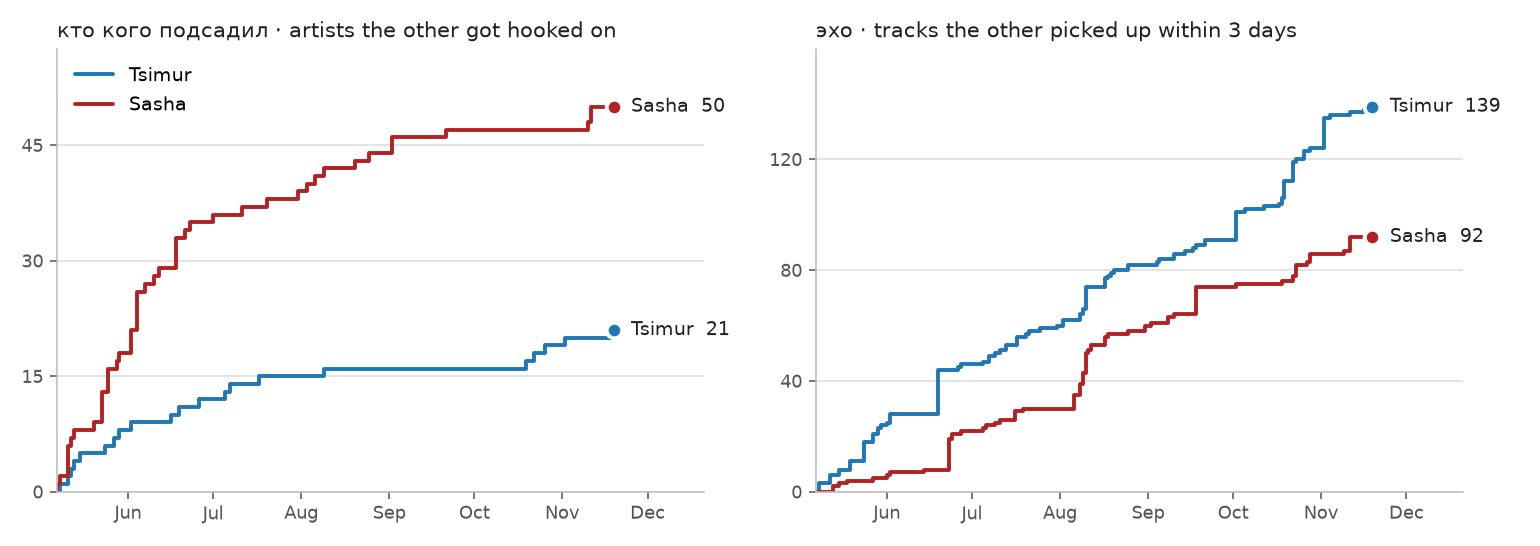
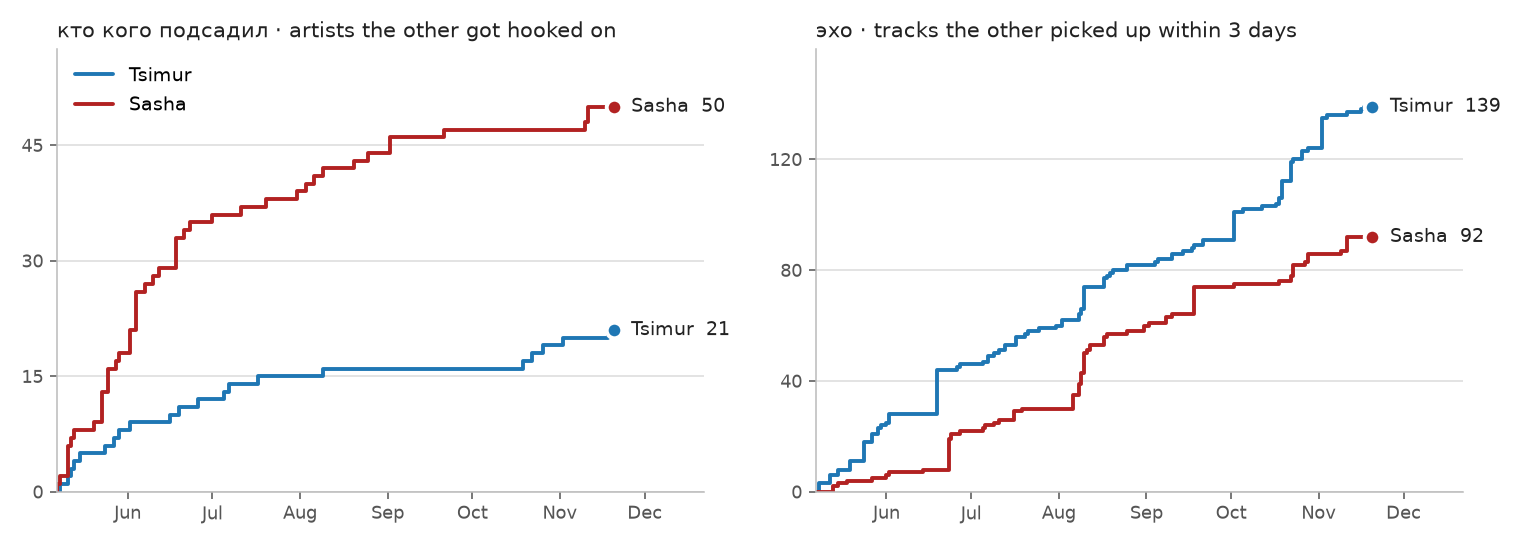
chore: daily data update 2026-11-20

diff --git a/index.html b/index.html
@@ -121,7 +121,7 @@
 
   <div class="card">
     <div class="card-header">::  over time  ::</div>
-    <div class="card-body"><img src="season2_chart.png?v=202611191416" alt="Cumulative conversions and echoes for each of us"></div>
+    <div class="card-body"><img src="season2_chart.png?v=202611201400" alt="Cumulative conversions and echoes for each of us"></div>
   </div>
 
   <div class="card">
@@ -129,10 +129,10 @@
     <div class="card-body">
       <p class="rule">An artist counts when one of us started playing it within 30 days
         after the other played it, and then played it at least 3 times.</p>
-      <ul class="facts"><li><span class="sw" style="background:#1f77b4"></span>Tsimur got <span class="sw" style="background:#b22222"></span>Sasha hooked on <b>21</b> artists — the biggest one: <b>John Maus</b> (127 plays since 17 Jul).</li><li><span class="sw" style="background:#b22222"></span>Sasha got <span class="sw" style="background:#1f77b4"></span>Tsimur hooked on <b>50</b> artists — the biggest one: <b>CUPSIZE</b> (3122 plays since 7 Jun).</li></ul>
+      <ul class="facts"><li><span class="sw" style="background:#1f77b4"></span>Tsimur got <span class="sw" style="background:#b22222"></span>Sasha hooked on <b>21</b> artists — the biggest one: <b>John Maus</b> (127 plays since 17 Jul).</li><li><span class="sw" style="background:#b22222"></span>Sasha got <span class="sw" style="background:#1f77b4"></span>Tsimur hooked on <b>50</b> artists — the biggest one: <b>CUPSIZE</b> (3127 plays since 7 Jun).</li></ul>
       <div class="scroll"><table class="list">
         <thead><tr><th>hooked on</th><th>artist</th><th>who → whom</th><th class="num">plays since</th><th class="num">after</th></tr></thead>
-        <tbody><tr><td>18 Nov</td><td><b>Leonard Cohen</b></td><td><span class="nowrap"><span class="sw" style="background:#1f77b4"></span>Tsimur → <span class="sw" style="background:#b22222"></span>Sasha</span></td><td class='num'>3</td><td class='num'>4 min</td></tr><tr><td>11 Nov</td><td><b>Сабля</b></td><td><span class="nowrap"><span class="sw" style="background:#b22222"></span>Sasha → <span class="sw" style="background:#1f77b4"></span>Tsimur</span></td><td class='num'>4</td><td class='num'>15 h</td></tr><tr><td>11 Nov</td><td><b>Рыцарь Диких Яблок</b></td><td><span class="nowrap"><span class="sw" style="background:#b22222"></span>Sasha → <span class="sw" style="background:#1f77b4"></span>Tsimur</span></td><td class='num'>4</td><td class='num'>20 min</td></tr><tr><td>10 Nov</td><td><b>Been Stellar</b></td><td><span class="nowrap"><span class="sw" style="background:#b22222"></span>Sasha → <span class="sw" style="background:#1f77b4"></span>Tsimur</span></td><td class='num'>4</td><td class='num'>22 days</td></tr><tr><td>2 Nov</td><td><b>emosl4t696</b></td><td><span class="nowrap"><span class="sw" style="background:#1f77b4"></span>Tsimur → <span class="sw" style="background:#b22222"></span>Sasha</span></td><td class='num'>15</td><td class='num'>5 h</td></tr><tr><td>26 Oct</td><td><b>noch`</b></td><td><span class="nowrap"><span class="sw" style="background:#1f77b4"></span>Tsimur → <span class="sw" style="background:#b22222"></span>Sasha</span></td><td class='num'>3</td><td class='num'>3 min</td></tr><tr><td>22 Oct</td><td><b>ear</b></td><td><span class="nowrap"><span class="sw" style="background:#1f77b4"></span>Tsimur → <span class="sw" style="background:#b22222"></span>Sasha</span></td><td class='num'>7</td><td class='num'>1 min</td></tr><tr><td>19 Oct</td><td><b>Gurriers</b></td><td><span class="nowrap"><span class="sw" style="background:#1f77b4"></span>Tsimur → <span class="sw" style="background:#b22222"></span>Sasha</span></td><td class='num'>3</td><td class='num'>24 h</td></tr><tr><td>21 Sep</td><td><b>Grimes</b></td><td><span class="nowrap"><span class="sw" style="background:#b22222"></span>Sasha → <span class="sw" style="background:#1f77b4"></span>Tsimur</span></td><td class='num'>3</td><td class='num'>7 days</td></tr><tr><td>2 Sep</td><td><b>superkomfort</b></td><td><span class="nowrap"><span class="sw" style="background:#b22222"></span>Sasha → <span class="sw" style="background:#1f77b4"></span>Tsimur</span></td><td class='num'>230</td><td class='num'>15 h</td></tr><tr><td>2 Sep</td><td><b>Future Nobodies</b></td><td><span class="nowrap"><span class="sw" style="background:#b22222"></span>Sasha → <span class="sw" style="background:#1f77b4"></span>Tsimur</span></td><td class='num'>34</td><td class='num'>23 days</td></tr><tr><td>25 Aug</td><td><b>Niko B</b></td><td><span class="nowrap"><span class="sw" style="background:#b22222"></span>Sasha → <span class="sw" style="background:#1f77b4"></span>Tsimur</span></td><td class='num'>5</td><td class='num'>48 min</td></tr></tbody>
+        <tbody><tr><td>18 Nov</td><td><b>Leonard Cohen</b></td><td><span class="nowrap"><span class="sw" style="background:#1f77b4"></span>Tsimur → <span class="sw" style="background:#b22222"></span>Sasha</span></td><td class='num'>3</td><td class='num'>4 min</td></tr><tr><td>11 Nov</td><td><b>Сабля</b></td><td><span class="nowrap"><span class="sw" style="background:#b22222"></span>Sasha → <span class="sw" style="background:#1f77b4"></span>Tsimur</span></td><td class='num'>4</td><td class='num'>15 h</td></tr><tr><td>11 Nov</td><td><b>Рыцарь Диких Яблок</b></td><td><span class="nowrap"><span class="sw" style="background:#b22222"></span>Sasha → <span class="sw" style="background:#1f77b4"></span>Tsimur</span></td><td class='num'>4</td><td class='num'>20 min</td></tr><tr><td>10 Nov</td><td><b>Been Stellar</b></td><td><span class="nowrap"><span class="sw" style="background:#b22222"></span>Sasha → <span class="sw" style="background:#1f77b4"></span>Tsimur</span></td><td class='num'>4</td><td class='num'>22 days</td></tr><tr><td>2 Nov</td><td><b>emosl4t696</b></td><td><span class="nowrap"><span class="sw" style="background:#1f77b4"></span>Tsimur → <span class="sw" style="background:#b22222"></span>Sasha</span></td><td class='num'>15</td><td class='num'>5 h</td></tr><tr><td>26 Oct</td><td><b>noch`</b></td><td><span class="nowrap"><span class="sw" style="background:#1f77b4"></span>Tsimur → <span class="sw" style="background:#b22222"></span>Sasha</span></td><td class='num'>3</td><td class='num'>3 min</td></tr><tr><td>22 Oct</td><td><b>ear</b></td><td><span class="nowrap"><span class="sw" style="background:#1f77b4"></span>Tsimur → <span class="sw" style="background:#b22222"></span>Sasha</span></td><td class='num'>7</td><td class='num'>1 min</td></tr><tr><td>19 Oct</td><td><b>Gurriers</b></td><td><span class="nowrap"><span class="sw" style="background:#1f77b4"></span>Tsimur → <span class="sw" style="background:#b22222"></span>Sasha</span></td><td class='num'>3</td><td class='num'>24 h</td></tr><tr><td>21 Sep</td><td><b>Grimes</b></td><td><span class="nowrap"><span class="sw" style="background:#b22222"></span>Sasha → <span class="sw" style="background:#1f77b4"></span>Tsimur</span></td><td class='num'>5</td><td class='num'>7 days</td></tr><tr><td>2 Sep</td><td><b>superkomfort</b></td><td><span class="nowrap"><span class="sw" style="background:#b22222"></span>Sasha → <span class="sw" style="background:#1f77b4"></span>Tsimur</span></td><td class='num'>230</td><td class='num'>15 h</td></tr><tr><td>2 Sep</td><td><b>Future Nobodies</b></td><td><span class="nowrap"><span class="sw" style="background:#b22222"></span>Sasha → <span class="sw" style="background:#1f77b4"></span>Tsimur</span></td><td class='num'>34</td><td class='num'>23 days</td></tr><tr><td>25 Aug</td><td><b>Niko B</b></td><td><span class="nowrap"><span class="sw" style="background:#b22222"></span>Sasha → <span class="sw" style="background:#1f77b4"></span>Tsimur</span></td><td class='num'>5</td><td class='num'>48 min</td></tr></tbody>
       </table></div>
     </div>
   </div>
@@ -156,10 +156,10 @@
       <p class="rule">Every artist you both play is a territory. It belongs to whoever gives it a bigger share
         of <i>their own</i> listening, so listening more doesn't win the map.</p>
       <p><b>25</b> artists you both played at least 2 times in the last 30 days. <span class="sw" style="background:#1f77b4"></span>Tsimur owns <b>5</b>, <span class="sw" style="background:#b22222"></span>Sasha owns <b>20</b>.</p>
-      <div class="tiles"><span class="tile" style="background:rgba(178,34,34,0.37);border-left-color:#b22222" title="Tsimur: 192 plays, 6.6% of listening; Sasha: 130 plays, 30.2% of listening">Fontaines D.C.<small>T 6.6% · S 30.2%</small></span><span class="tile" style="background:rgba(31,119,180,0.18);border-left-color:#1f77b4" title="Tsimur: 289 plays, 10.0% of listening; Sasha: 33 plays, 7.7% of listening">CUPSIZE<small>T 10.0% · S 7.7%</small></span><span class="tile" style="background:rgba(31,119,180,0.29);border-left-color:#1f77b4" title="Tsimur: 189 plays, 6.5% of listening; Sasha: 13 plays, 3.0% of listening">Глум<small>T 6.5% · S 3.0%</small></span><span class="tile" style="background:rgba(178,34,34,0.43);border-left-color:#b22222" title="Tsimur: 7 plays, 0.2% of listening; Sasha: 21 plays, 4.9% of listening">John Maus<small>T 0.2% · S 4.9%</small></span><span class="tile" style="background:rgba(178,34,34,0.32);border-left-color:#b22222" title="Tsimur: 32 plays, 1.1% of listening; Sasha: 13 plays, 3.0% of listening">Crystal Castles<small>T 1.1% · S 3.0%</small></span><span class="tile" style="background:rgba(178,34,34,0.40);border-left-color:#b22222" title="Tsimur: 14 plays, 0.5% of listening; Sasha: 15 plays, 3.5% of listening">emosl4t696<small>T 0.5% · S 3.5%</small></span><span class="tile" style="background:rgba(31,119,180,0.34);border-left-color:#1f77b4" title="Tsimur: 83 plays, 2.9% of listening; Sasha: 4 plays, 0.9% of listening">Death Grips<small>T 2.9% · S 0.9%</small></span><span class="tile" style="background:rgba(178,34,34,0.41);border-left-color:#b22222" title="Tsimur: 10 plays, 0.3% of listening; Sasha: 13 plays, 3.0% of listening">Арсений Креститель<small>T 0.3% · S 3.0%</small></span><span class="tile" style="background:rgba(31,119,180,0.39);border-left-color:#1f77b4" title="Tsimur: 81 plays, 2.8% of listening; Sasha: 2 plays, 0.5% of listening">Philip Glass<small>T 2.8% · S 0.5%</small></span><span class="tile" style="background:rgba(178,34,34,0.43);border-left-color:#b22222" title="Tsimur: 4 plays, 0.1% of listening; Sasha: 13 plays, 3.0% of listening">Сабля<small>T 0.1% · S 3.0%</small></span><span class="tile" style="background:rgba(178,34,34,0.39);border-left-color:#b22222" title="Tsimur: 11 plays, 0.4% of listening; Sasha: 9 plays, 2.1% of listening">Padla Bear Outfit<small>T 0.4% · S 2.1%</small></span><span class="tile" style="background:rgba(178,34,34,0.16);border-left-color:#b22222" title="Tsimur: 28 plays, 1.0% of listening; Sasha: 5 plays, 1.2% of listening">Faerybabyy<small>T 1.0% · S 1.2%</small></span><span class="tile" style="background:rgba(178,34,34,0.38);border-left-color:#b22222" title="Tsimur: 10 plays, 0.3% of listening; Sasha: 7 plays, 1.6% of listening">ear<small>T 0.3% · S 1.6%</small></span><span class="tile" style="background:rgba(31,119,180,0.24);border-left-color:#1f77b4" title="Tsimur: 34 plays, 1.2% of listening; Sasha: 3 plays, 0.7% of listening">noch`<small>T 1.2% · S 0.7%</small></span><span class="tile" style="background:rgba(178,34,34,0.41);border-left-color:#b22222" title="Tsimur: 6 plays, 0.2% of listening; Sasha: 7 plays, 1.6% of listening">Cults<small>T 0.2% · S 1.6%</small></span><span class="tile" style="background:rgba(178,34,34,0.40);border-left-color:#b22222" title="Tsimur: 6 plays, 0.2% of listening; Sasha: 6 plays, 1.4% of listening">Jan Bąk<small>T 0.2% · S 1.4%</small></span><span class="tile" style="background:rgba(178,34,34,0.36);border-left-color:#b22222" title="Tsimur: 7 plays, 0.2% of listening; Sasha: 4 plays, 0.9% of listening">Деревянные Киты<small>T 0.2% · S 0.9%</small></span><span class="tile" style="background:rgba(178,34,34,0.31);border-left-color:#b22222" title="Tsimur: 8 plays, 0.3% of listening; Sasha: 3 plays, 0.7% of listening">Molly Nilsson<small>T 0.3% · S 0.7%</small></span><span class="tile" style="background:rgba(178,34,34,0.35);border-left-color:#b22222" title="Tsimur: 6 plays, 0.2% of listening; Sasha: 3 plays, 0.7% of listening">TV Girl<small>T 0.2% · S 0.7%</small></span><span class="tile" style="background:rgba(178,34,34,0.42);border-left-color:#b22222" title="Tsimur: 2 plays, 0.1% of listening; Sasha: 3 plays, 0.7% of listening">Com Truise<small>T 0.1% · S 0.7%</small></span><span class="tile" style="background:rgba(178,34,34,0.35);border-left-color:#b22222" title="Tsimur: 4 plays, 0.1% of listening; Sasha: 2 plays, 0.5% of listening">Рыцарь Диких Яблок<small>T 0.1% · S 0.5%</small></span><span class="tile" style="background:rgba(178,34,34,0.40);border-left-color:#b22222" title="Tsimur: 2 plays, 0.1% of listening; Sasha: 2 plays, 0.5% of listening">Eyedress<small>T 0.1% · S 0.5%</small></span><span class="tile" style="background:rgba(178,34,34,0.40);border-left-color:#b22222" title="Tsimur: 2 plays, 0.1% of listening; Sasha: 2 plays, 0.5% of listening">Komsomolsk<small>T 0.1% · S 0.5%</small></span><span class="tile" style="background:rgba(178,34,34,0.40);border-left-color:#b22222" title="Tsimur: 2 plays, 0.1% of listening; Sasha: 2 plays, 0.5% of listening">Монти Механик<small>T 0.1% · S 0.5%</small></span><span class="tile" style="background:rgba(178,34,34,0.40);border-left-color:#b22222" title="Tsimur: 2 plays, 0.1% of listening; Sasha: 2 plays, 0.5% of listening">Шампур<small>T 0.1% · S 0.5%</small></span></div>
+      <div class="tiles"><span class="tile" style="background:rgba(178,34,34,0.38);border-left-color:#b22222" title="Tsimur: 192 plays, 6.0% of listening; Sasha: 129 plays, 30.0% of listening">Fontaines D.C.<small>T 6.0% · S 30.0%</small></span><span class="tile" style="background:rgba(31,119,180,0.16);border-left-color:#1f77b4" title="Tsimur: 294 plays, 9.2% of listening; Sasha: 33 plays, 7.7% of listening">CUPSIZE<small>T 9.2% · S 7.7%</small></span><span class="tile" style="background:rgba(31,119,180,0.27);border-left-color:#1f77b4" title="Tsimur: 189 plays, 5.9% of listening; Sasha: 13 plays, 3.0% of listening">Глум<small>T 5.9% · S 3.0%</small></span><span class="tile" style="background:rgba(178,34,34,0.43);border-left-color:#b22222" title="Tsimur: 7 plays, 0.2% of listening; Sasha: 21 plays, 4.9% of listening">John Maus<small>T 0.2% · S 4.9%</small></span><span class="tile" style="background:rgba(178,34,34,0.33);border-left-color:#b22222" title="Tsimur: 32 plays, 1.0% of listening; Sasha: 13 plays, 3.0% of listening">Crystal Castles<small>T 1.0% · S 3.0%</small></span><span class="tile" style="background:rgba(178,34,34,0.41);border-left-color:#b22222" title="Tsimur: 14 plays, 0.4% of listening; Sasha: 15 plays, 3.5% of listening">emosl4t696<small>T 0.4% · S 3.5%</small></span><span class="tile" style="background:rgba(31,119,180,0.33);border-left-color:#1f77b4" title="Tsimur: 84 plays, 2.6% of listening; Sasha: 4 plays, 0.9% of listening">Death Grips<small>T 2.6% · S 0.9%</small></span><span class="tile" style="background:rgba(178,34,34,0.41);border-left-color:#b22222" title="Tsimur: 10 plays, 0.3% of listening; Sasha: 13 plays, 3.0% of listening">Арсений Креститель<small>T 0.3% · S 3.0%</small></span><span class="tile" style="background:rgba(178,34,34,0.44);border-left-color:#b22222" title="Tsimur: 4 plays, 0.1% of listening; Sasha: 13 plays, 3.0% of listening">Сабля<small>T 0.1% · S 3.0%</small></span><span class="tile" style="background:rgba(31,119,180,0.39);border-left-color:#1f77b4" title="Tsimur: 81 plays, 2.5% of listening; Sasha: 2 plays, 0.5% of listening">Philip Glass<small>T 2.5% · S 0.5%</small></span><span class="tile" style="background:rgba(178,34,34,0.39);border-left-color:#b22222" title="Tsimur: 11 plays, 0.3% of listening; Sasha: 9 plays, 2.1% of listening">Padla Bear Outfit<small>T 0.3% · S 2.1%</small></span><span class="tile" style="background:rgba(178,34,34,0.19);border-left-color:#b22222" title="Tsimur: 28 plays, 0.9% of listening; Sasha: 5 plays, 1.2% of listening">Faerybabyy<small>T 0.9% · S 1.2%</small></span><span class="tile" style="background:rgba(178,34,34,0.38);border-left-color:#b22222" title="Tsimur: 10 plays, 0.3% of listening; Sasha: 7 plays, 1.6% of listening">ear<small>T 0.3% · S 1.6%</small></span><span class="tile" style="background:rgba(178,34,34,0.41);border-left-color:#b22222" title="Tsimur: 6 plays, 0.2% of listening; Sasha: 7 plays, 1.6% of listening">Cults<small>T 0.2% · S 1.6%</small></span><span class="tile" style="background:rgba(31,119,180,0.22);border-left-color:#1f77b4" title="Tsimur: 34 plays, 1.1% of listening; Sasha: 3 plays, 0.7% of listening">noch`<small>T 1.1% · S 0.7%</small></span><span class="tile" style="background:rgba(178,34,34,0.40);border-left-color:#b22222" title="Tsimur: 6 plays, 0.2% of listening; Sasha: 6 plays, 1.4% of listening">Jan Bąk<small>T 0.2% · S 1.4%</small></span><span class="tile" style="background:rgba(178,34,34,0.37);border-left-color:#b22222" title="Tsimur: 7 plays, 0.2% of listening; Sasha: 4 plays, 0.9% of listening">Деревянные Киты<small>T 0.2% · S 0.9%</small></span><span class="tile" style="background:rgba(178,34,34,0.32);border-left-color:#b22222" title="Tsimur: 8 plays, 0.2% of listening; Sasha: 3 plays, 0.7% of listening">Molly Nilsson<small>T 0.2% · S 0.7%</small></span><span class="tile" style="background:rgba(178,34,34,0.36);border-left-color:#b22222" title="Tsimur: 6 plays, 0.2% of listening; Sasha: 3 plays, 0.7% of listening">TV Girl<small>T 0.2% · S 0.7%</small></span><span class="tile" style="background:rgba(178,34,34,0.42);border-left-color:#b22222" title="Tsimur: 2 plays, 0.1% of listening; Sasha: 3 plays, 0.7% of listening">Com Truise<small>T 0.1% · S 0.7%</small></span><span class="tile" style="background:rgba(178,34,34,0.36);border-left-color:#b22222" title="Tsimur: 4 plays, 0.1% of listening; Sasha: 2 plays, 0.5% of listening">Рыцарь Диких Яблок<small>T 0.1% · S 0.5%</small></span><span class="tile" style="background:rgba(178,34,34,0.40);border-left-color:#b22222" title="Tsimur: 2 plays, 0.1% of listening; Sasha: 2 plays, 0.5% of listening">Eyedress<small>T 0.1% · S 0.5%</small></span><span class="tile" style="background:rgba(178,34,34,0.40);border-left-color:#b22222" title="Tsimur: 2 plays, 0.1% of listening; Sasha: 2 plays, 0.5% of listening">Komsomolsk<small>T 0.1% · S 0.5%</small></span><span class="tile" style="background:rgba(178,34,34,0.40);border-left-color:#b22222" title="Tsimur: 2 plays, 0.1% of listening; Sasha: 2 plays, 0.5% of listening">Монти Механик<small>T 0.1% · S 0.5%</small></span><span class="tile" style="background:rgba(178,34,34,0.40);border-left-color:#b22222" title="Tsimur: 2 plays, 0.1% of listening; Sasha: 2 plays, 0.5% of listening">Шампур<small>T 0.1% · S 0.5%</small></span></div>
       <p><b>This week</b></p>
-      <ul class="facts"><li><span class="sw" style="background:#b22222"></span>Sasha took <b>Faerybabyy</b> from <span class="sw" style="background:#1f77b4"></span>Tsimur</li><li>new contested artists: Cults, Com Truise, Eyedress, Komsomolsk</li></ul>
-      <p class="muted">Not on the map (only one of you plays them): 191 artists only Tsimur, 11 only Sasha.</p>
+      <ul class="facts"><li>new contested artists: Cults, Com Truise, Eyedress, Komsomolsk</li></ul>
+      <p class="muted">Not on the map (only one of you plays them): 197 artists only Tsimur, 11 only Sasha.</p>
     </div>
   </div>
 
@@ -187,7 +187,7 @@
     <p>Artist names ignore case and "feat." parts. Days are counted in Minsk time.</p>
   </details>
 
-  <p class="updated">last updated: 2026-11-19 14:16</p>
+  <p class="updated">last updated: 2026-11-20 14:00</p>
 
 </div>
 </body>
